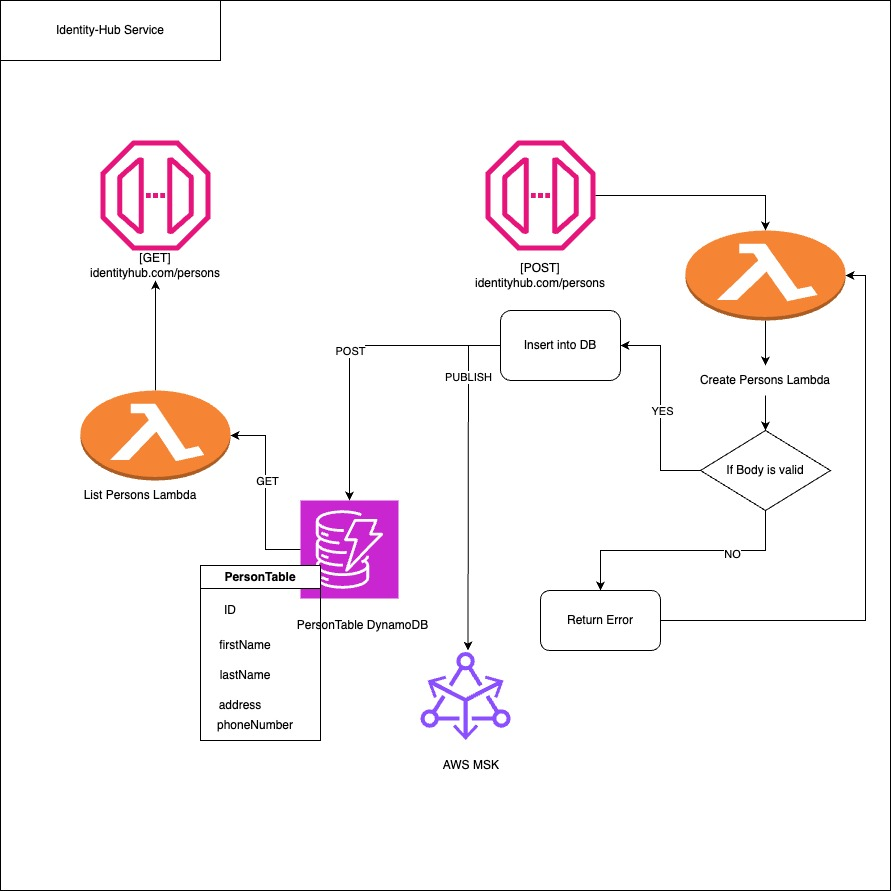
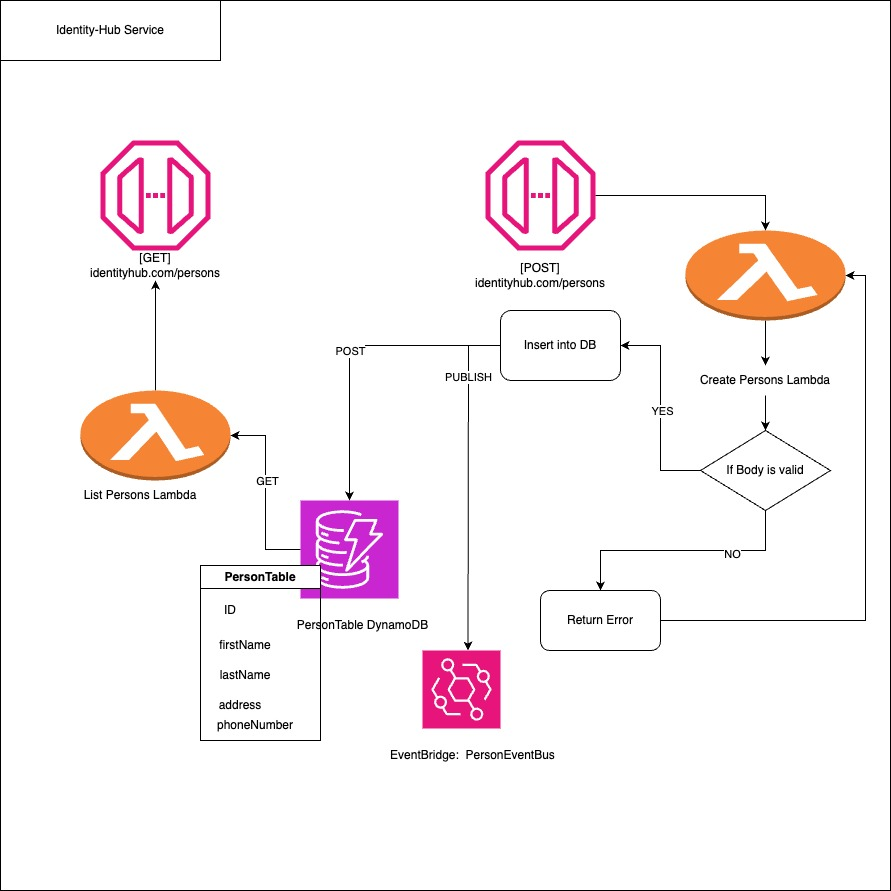
IHUB-4: Change SNS to EventBridge

Changed region(s): [[0.4545, 0.7273, 0.6061, 0.8788]]

diff --git a/stacks/PersonStack.ts b/stacks/PersonStack.ts
@@ -23,6 +23,9 @@ export function PersonApiStack({ stack }: StackContext) {
               source: ["com.example.identity_hub"],
               detailType: ["PersonCreated"],
             },
+            targets: {
+                personArn: "arn:aws:lambda:eu-west-1:185507759994:function:prod-Identity-Hub-PersonApiSt-CreatePerson51F8A8F8-I7tr3DN1qMqg",
+            },
           },
         },
       });
